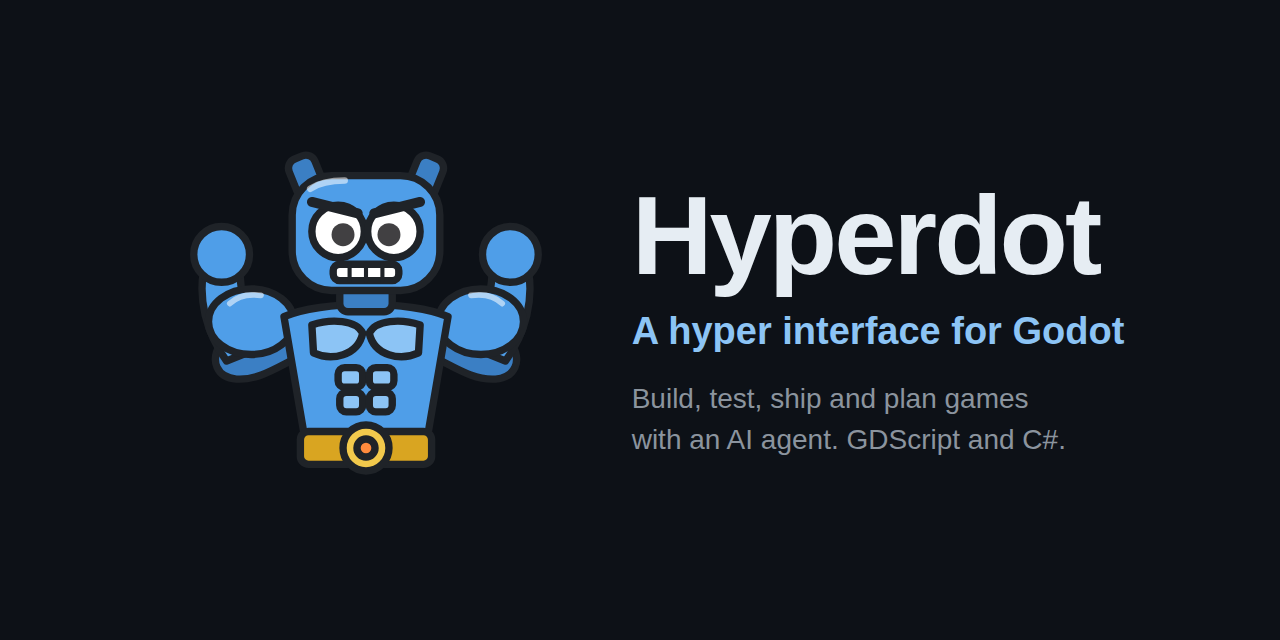
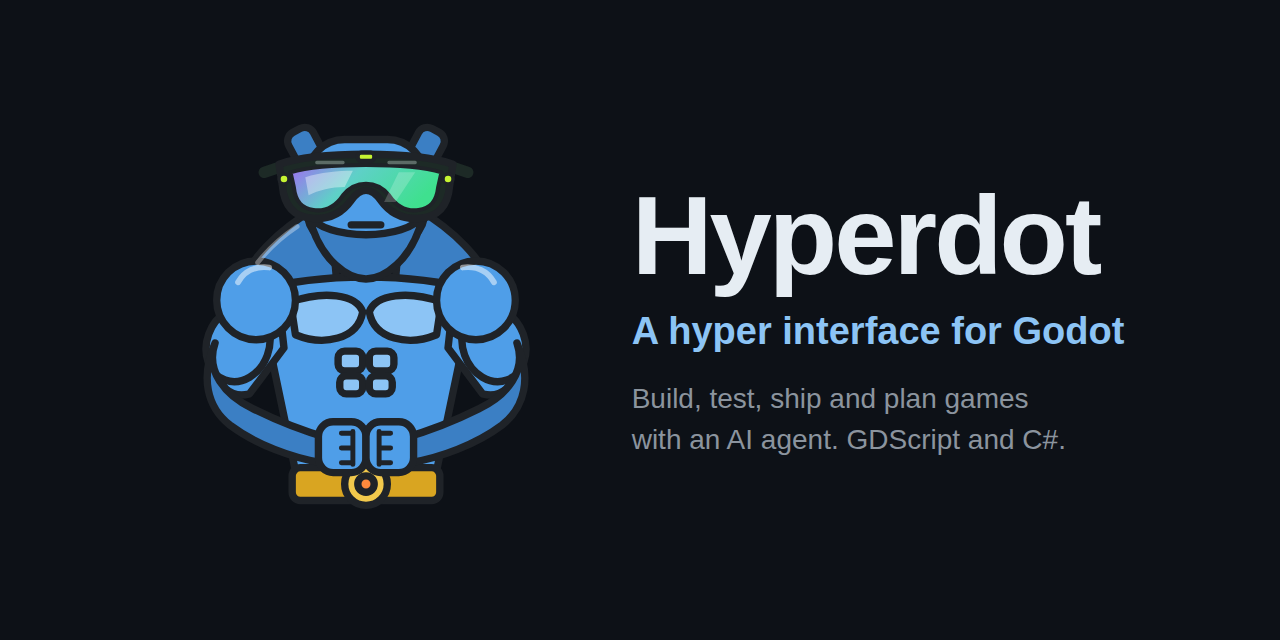
Mascot: chin up, fists together, wraparound sports glasses, traps beside the head
Option 1 remade with the owner: no neck, traps sloping from the jaw to
the shoulders, forearms angled in to fists that touch in front of the
belt, and one-piece shield sunglasses with a purple-to-green lens. The
social preview uses it.

Changed region(s): [[0.1562, 0.1875, 0.4375, 0.7812]]

diff --git a/CHANGELOG.md b/CHANGELOG.md
@@ -5,7 +5,7 @@
   game receives (`ci/godot/templates/`, the starter tests `init` writes) are MIT No Attribution
   (`ci/godot/templates/LICENSE.md`). `NOTICE` lists the third-party parts and their licences: Sfxr (Apache-2.0 and MIT),
   the University of Washington genre vocabulary (CC BY-NC-SA 4.0, with permission), Wikidata genres (CC0).
-- README: a mascot logo (`docs/assets/hyperdot-logo.svg`, a muscular robot in flat clip-art style), a one-line pitch, badges, a sample of the JSON an agent reads,
+- README: a mascot logo (`docs/assets/hyperdot-logo.svg`, a muscular robot in wraparound sports sunglasses, flat clip-art style), a one-line pitch, badges, a sample of the JSON an agent reads,
   collapsible prerequisites and FAQ, and a licence and trademark section.
 - **Renamed to Hyperdot (breaking, no aliases).** The script is `ci/godot/hyperdot.ps1`, the plugin `hyperdot`, the
   repository `nick-vas/hyperdot`, the environment variables `HYPERDOT_TIMEOUT`, `HYPERDOT_IGNORE_ERRORS`,

diff --git a/README.md b/README.md
@@ -1,5 +1,5 @@
 <p align="center">
-  <img src="docs/assets/hyperdot-logo.svg" alt="Hyperdot mascot: a muscular robot flexing" width="200">
+  <img src="docs/assets/hyperdot-logo.svg" alt="Hyperdot mascot: a muscular robot in wraparound sunglasses, fists together" width="200">
 </p>
 
 <h1 align="center">Hyperdot</h1>
